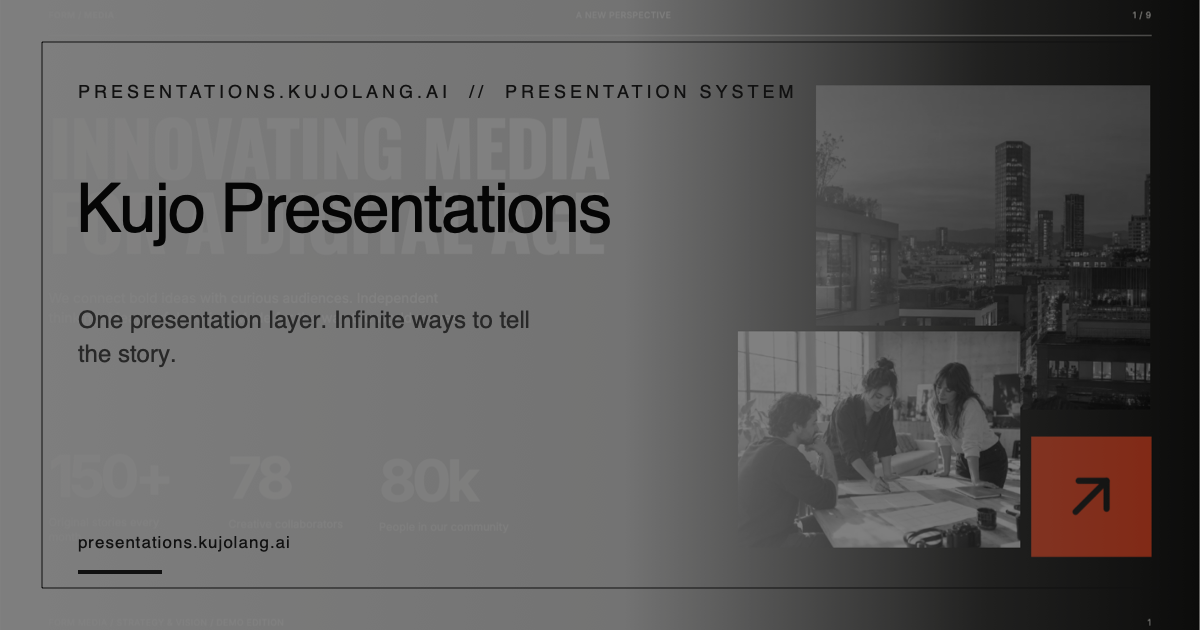
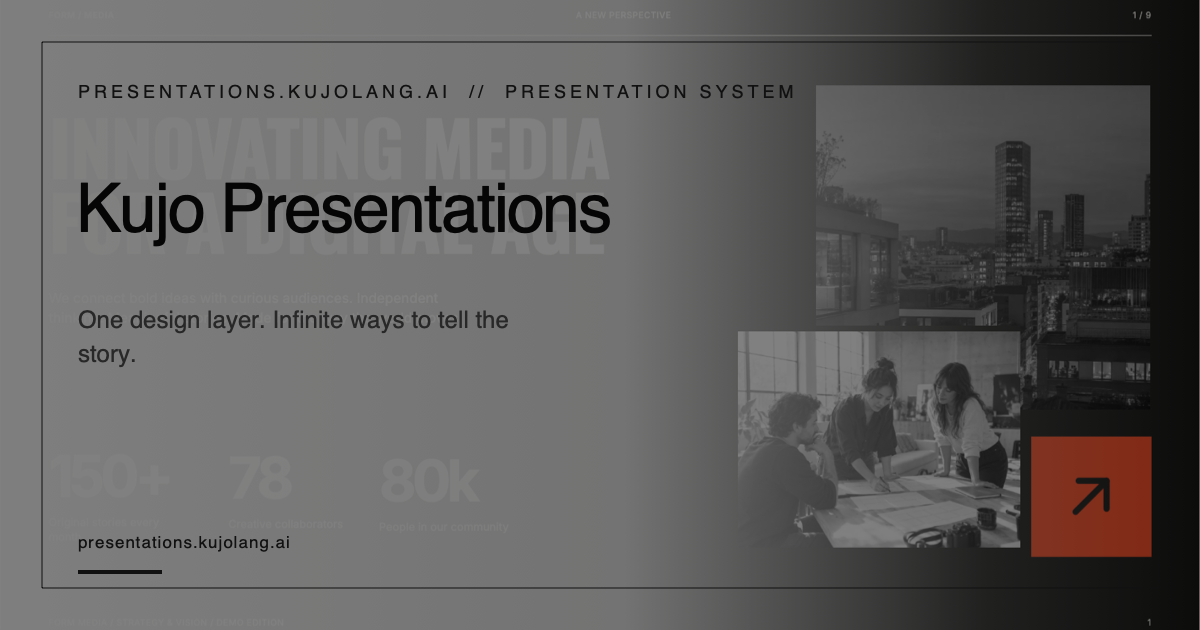
fix(showcase): lead with the design layer message

Changed region(s): [[0.0617, 0.4825, 0.4625, 0.573]]

diff --git a/deployment/index.html b/deployment/index.html
@@ -36,7 +36,7 @@
     <main>
       <section class="hero" aria-labelledby="page-title">
         <p class="eyebrow">Kujo / Presentations / Four demos</p>
-        <h1 class="page-title" id="page-title"><span>One presentation layer.</span><span>Infinite ways to tell the story.</span></h1>
+        <h1 class="page-title" id="page-title"><span>One design layer.</span><span>Infinite ways to tell the story.</span></h1>
         <p class="lede">Build once, then present, share, read, or print. Choose a complete demo to see how the same system adapts to a different audience and visual identity.</p>
       </section>
       <section class="grid" id="demos" aria-label="Presentation demos">
